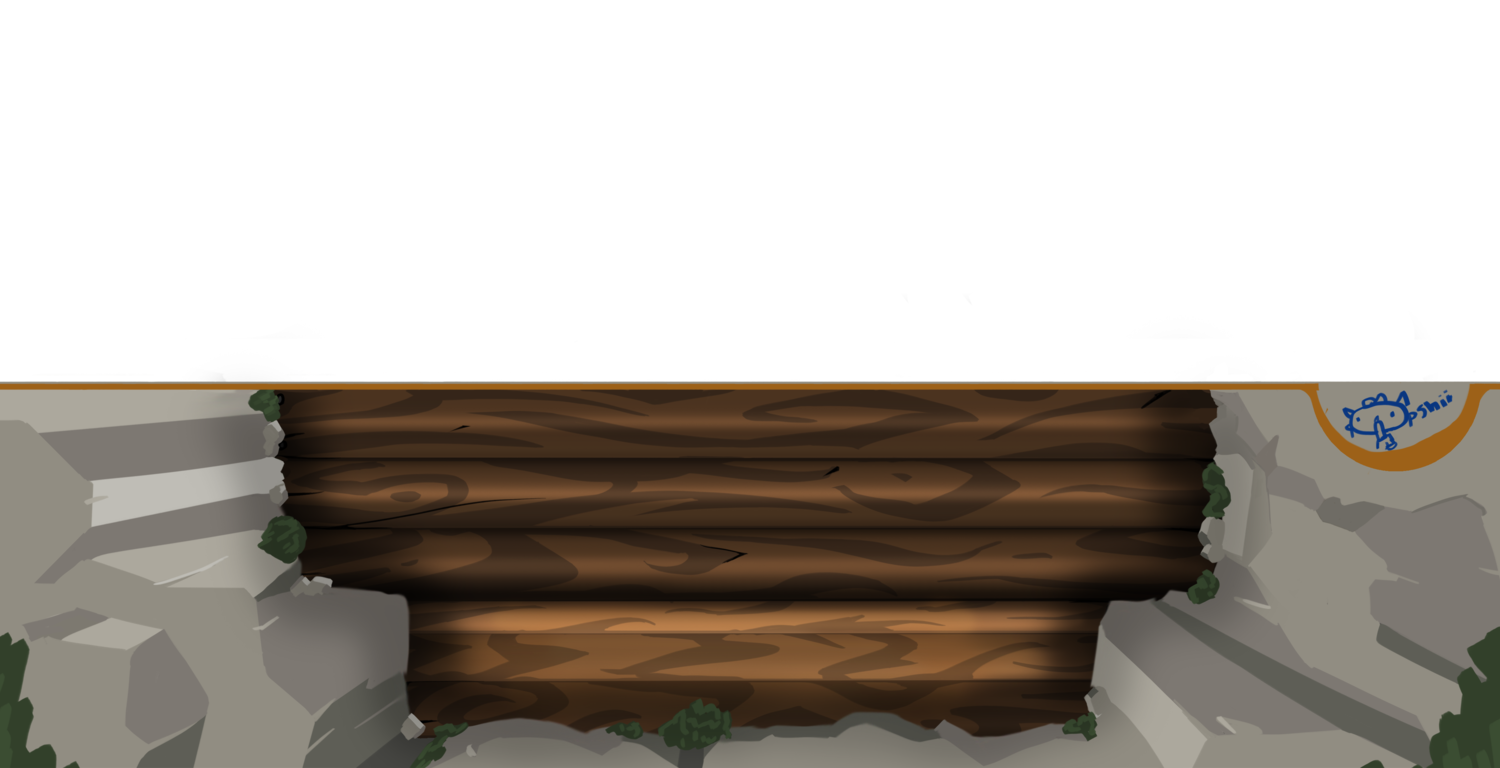
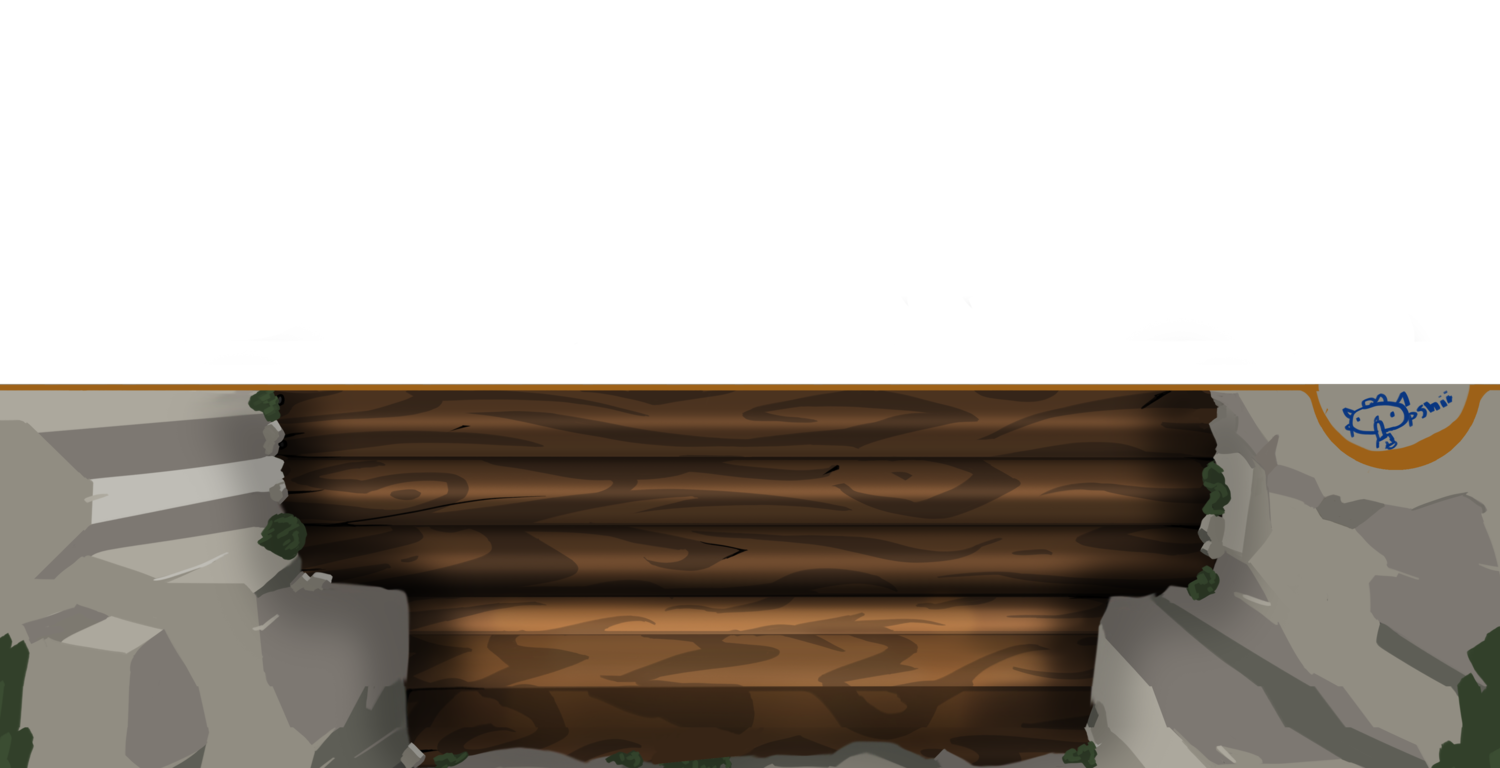
update board

diff --git a/dumcrown/dumcrown/static/dumcrown/game-V0.1.4/match_objects/match.js b/dumcrown/dumcrown/static/dumcrown/game-V0.1.4/match_objects/match.js
@@ -92,7 +92,7 @@ export class MatchManager {
         this.defensiveHitbox = []
         //enemy
         log.info('Criação', 'Criando enemy board com key: ' + this.enemy.board)
-        this.enemyBoard = this.scene.add.image(centerX, centerY - 2, this.enemy.board);
+        this.enemyBoard = this.scene.add.image(centerX, centerY, this.enemy.board);
         this.enemyBoard.setScale(1, -1);
         this.enemyBench = []
 

diff --git a/dumcrown/dumcrown/static/dumcrown/game-V0.1.4/main.js b/dumcrown/dumcrown/static/dumcrown/game-V0.1.4/main.js
@@ -32,7 +32,7 @@ export let socket;
 connectWebSocket()
 function connectWebSocket() {
     const host = window.location.hostname;
-    socket = new WebSocket(`wss://${host}/ws/game/`);
+    socket = new WebSocket(`ws://${host}/ws/game/`);
 
     socket.onopen = (event) => {
         console.log('Conexão com WebSocket estabelecida.');
